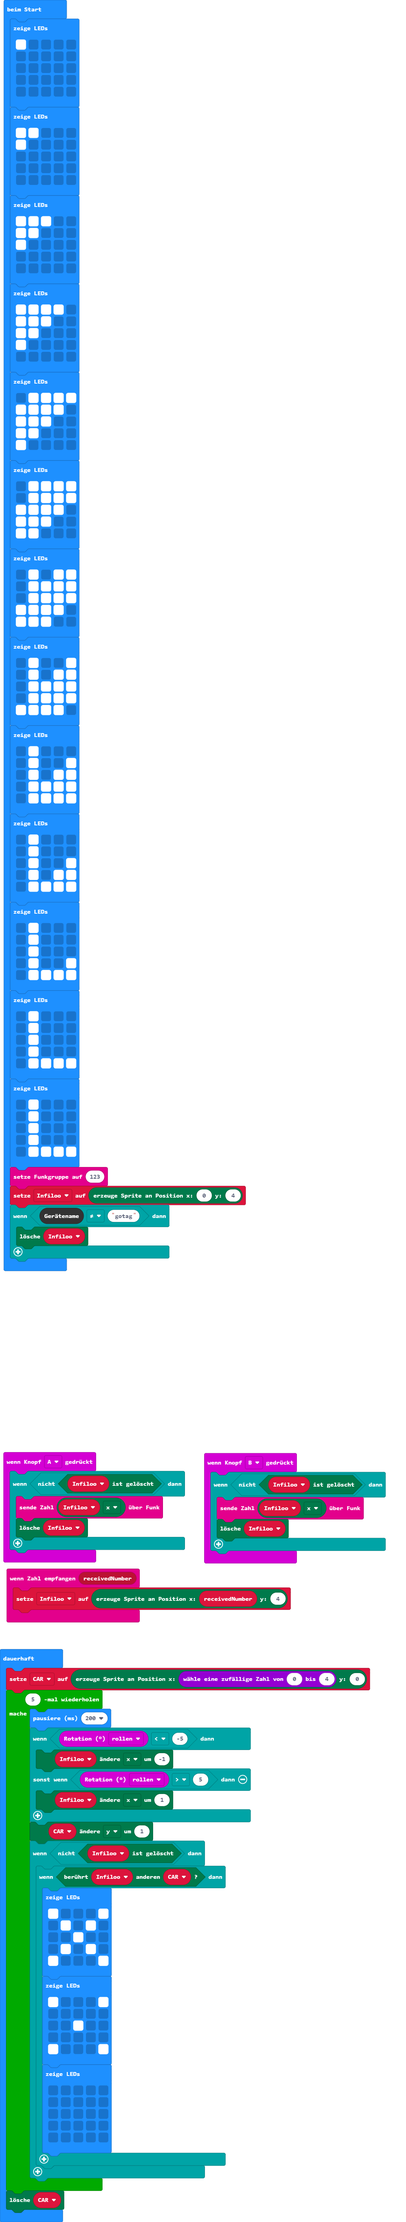
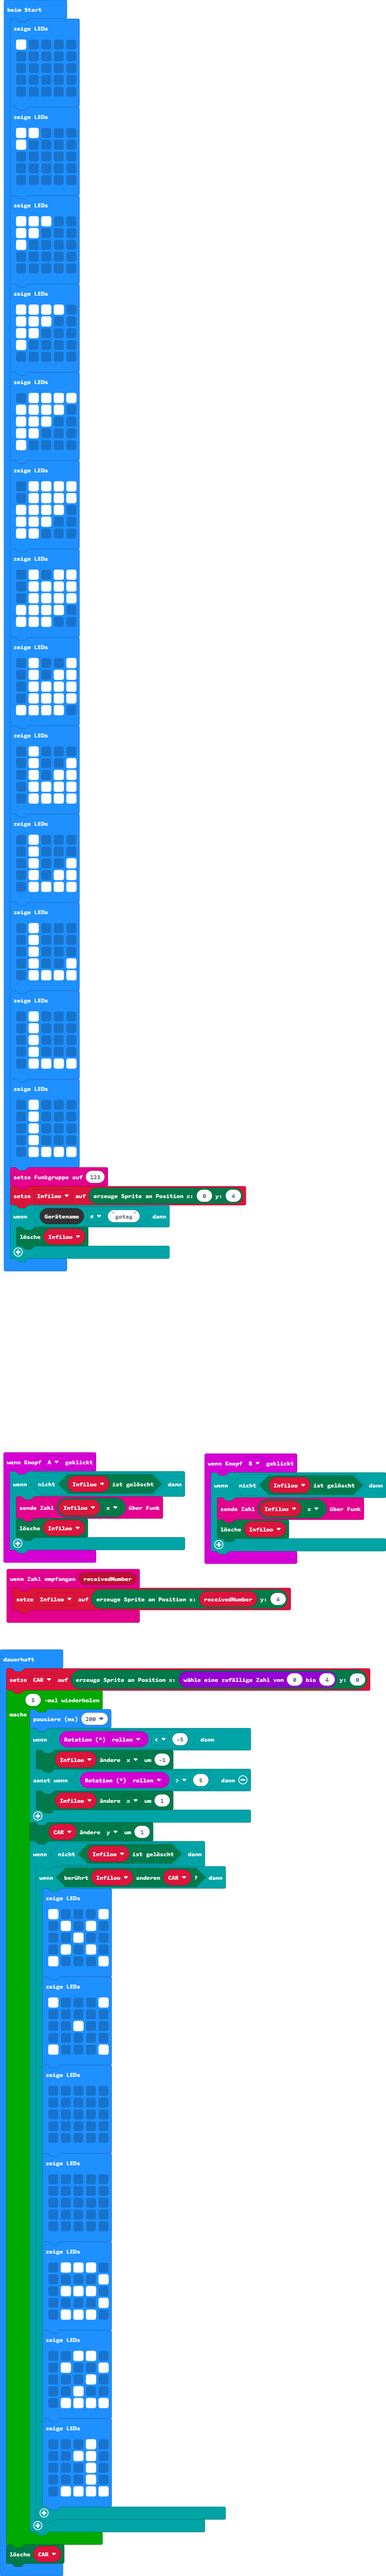
Countdown added

Changed region(s): [[0.0, 0.0, 1.0, 1.0], [0.5493, 0.4354, 0.6409, 0.4665]]

diff --git a/main.ts b/main.ts
@@ -144,6 +144,34 @@ basic.forever(function () {
                     . . . . .
                     . . . . .
                     `)
+                basic.showLeds(`
+                    . . . . .
+                    . . . . .
+                    . . . . .
+                    . . . . .
+                    . . . . .
+                    `)
+                basic.showLeds(`
+                    . # # # .
+                    . . . . #
+                    . # # # .
+                    . . . . #
+                    . # # # .
+                    `)
+                basic.showLeds(`
+                    . . # # .
+                    . # . . #
+                    . . . # .
+                    . . # . .
+                    . # # # #
+                    `)
+                basic.showLeds(`
+                    . . . # .
+                    . . # # .
+                    . . . # .
+                    . . . # .
+                    . # # # #
+                    `)
             }
         }
     }
